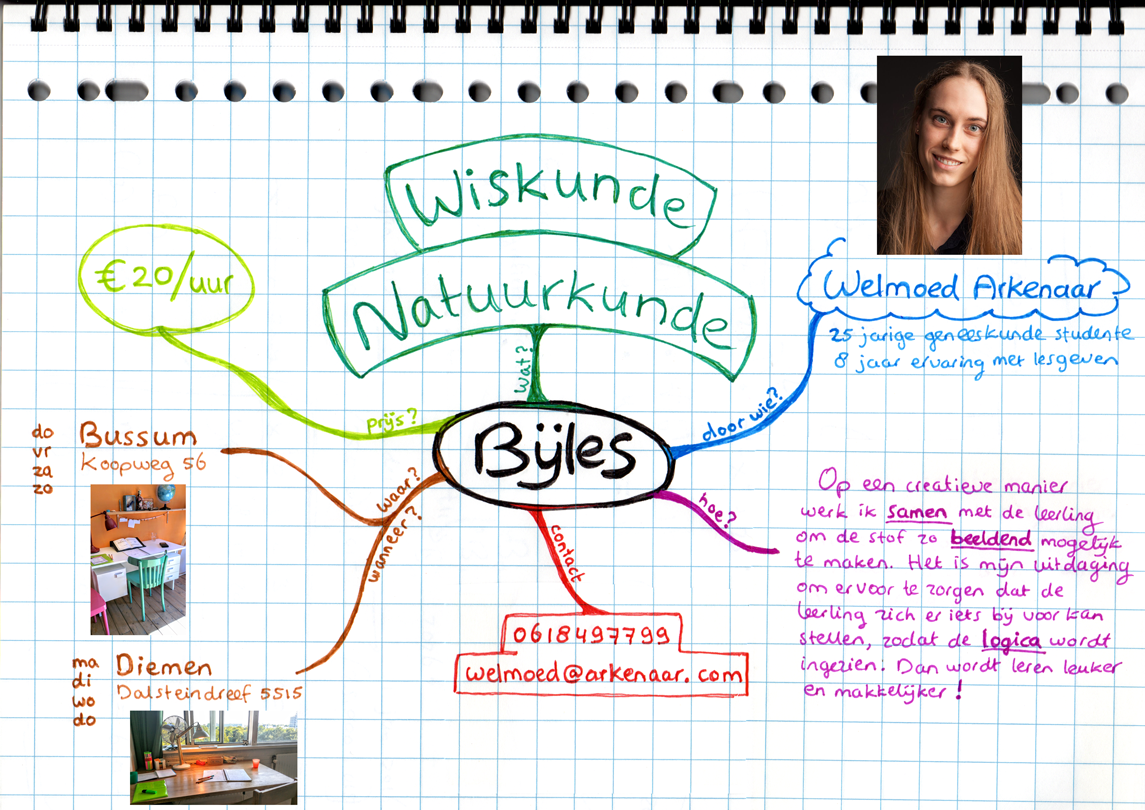
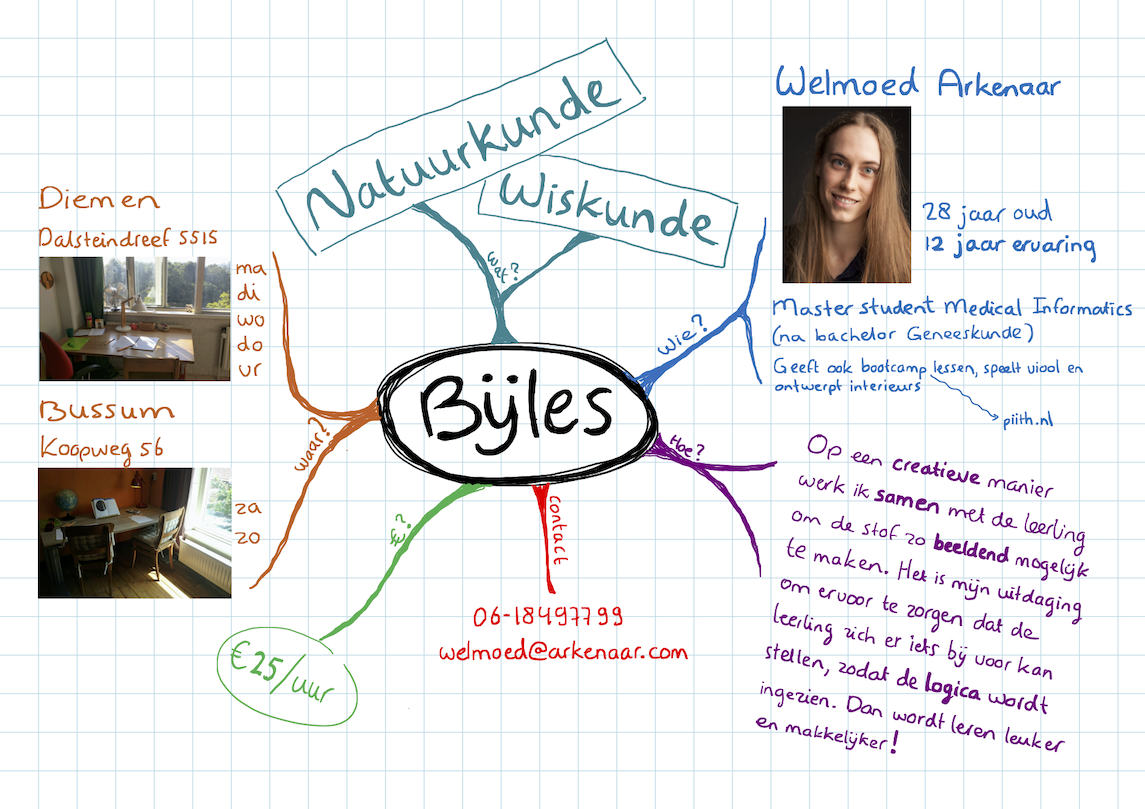
Re-add and update visual

diff --git a/index.html b/index.html
@@ -21,8 +21,12 @@
     <p class="browserupgrade">You are using an <strong>outdated</strong> browser. Please <a href="http://browsehappy.com/">upgrade your browser</a> to improve your experience.</p>
     <![endif]-->
     
+    <section id="visual">
+      <a name="visueel"></a>
+    </section>
+
     <a name="tekst"></a>
-    <section id="text">
+    <section id="text" class="hide">
       <h1>Bijles</h1>
       <ul>
         <li>Wiskunde</li>
@@ -75,6 +79,9 @@
             <li><a href="tel:0618497799">0618497799</a></li>
             <li><a href="mailto:welmoed@arkenaar.com">welmoed@arkenaar.com</a></li>
           </ul>
+          <ul class="nav navbar-nav navbar-right">
+            <li id="toTextItem"><a id="toTextLink" href="#tekst">Tekst versie</a></li>
+          </ul>
         </div>
       </div>
     </nav>
@@ -93,5 +100,6 @@
     <script>window.jQuery || document.write('<script src="js/vendor/jquery-1.11.1.min.js"><\/script>')</script>
     <script src="js/plugins.js"></script>
     <script src="js/bootstrap.min.js"></script>
+    <script src="js/main.js"></script>
   </body>
 </html>

diff --git a/css/main.css b/css/main.css
@@ -104,7 +104,7 @@ textarea {
 #visual {
   margin: 50px auto 0 auto;
   width: 1145px;
-  height: 810px;
+  height: 809px;
   background-image: url('../images/bijles.png');
 }
 
